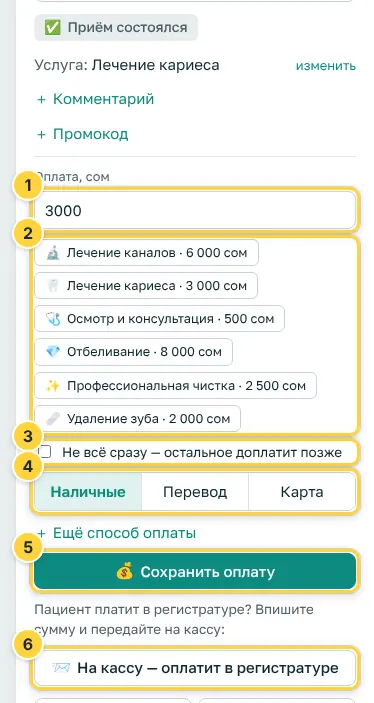
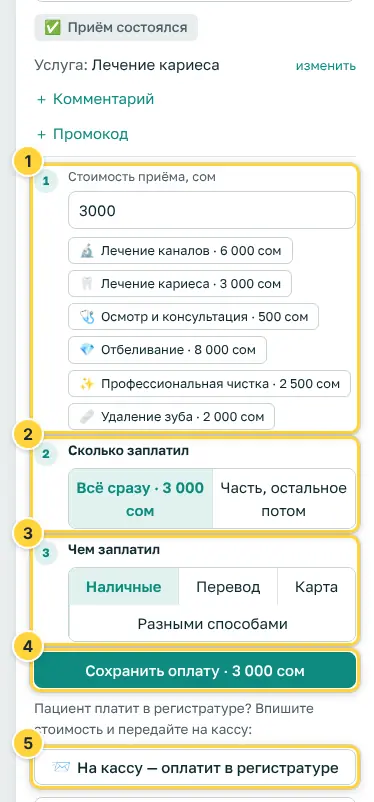
Оплата по шагам: стоимость → «всё сразу» или «часть, остальное потом» → чем заплатил («разными способами» — сумма по каждому)
Сумма вводится один раз, остаток и сверка способов видны сразу; «Снять отметку оплаты» — отдельной кнопкой.
Руководство: шаги и снимок оплаты.

Claude-Session: https://claude.ai/code/session_01C1D5HDPYP8Vu6bMCVu8hAp

diff --git a/src/schedule/PaymentBox.tsx b/src/schedule/PaymentBox.tsx
@@ -24,8 +24,8 @@ type View = 'show' | 'edit' | 'bill' | 'extra' | 'rest' | 'billed'
  * - оплачен: сумма, «Изменить», долг со сроком или «Оплачено полностью», история платежей;
  *   была только предоплата — «Указать стоимость и принять остаток»; есть долг — «Принять доплату»;
  * - «На кассу» (в клинике есть регистратура, а я врач): «К оплате на кассе», врачу — «Изменить сумму»;
- * - форма: сумма, цены услуг кнопками (ещё раз — прибавить), «Не всё сразу» со стоимостью и сроком,
- *   «＋ Ещё способ оплаты» — часть наличными, часть переводом. Пустая сумма — снять отметку оплаты.
+ * - форма по шагам: стоимость → «всё сразу» или «часть, остальное потом» → чем заплатил (или
+ *   «разными способами»); «Снять отметку оплаты» — отдельной кнопкой.
  * После ответа сервера карточка пересоздаёт блок (ключ — версия приёма), он открывается в нужном виде.
  */
 export function PaymentBox({ appointment: a, me }: { appointment: Appointment; me: Me }) {
@@ -129,8 +129,20 @@ function PriceChips({ onPick }: { onPick: (price: number, add: boolean) => void 
   )
 }
 
-type Part = { key: number; amount: string; method: Method }
+/** Как заплатил: один способ или «разными» — тогда сумма по каждому. */
+type How = Method | 'SPLIT'
+const HOW: [How, string][] = [...METHODS, ['SPLIT', 'Разными способами']]
+type Split = Record<Method, string>
+const NO_SPLIT: Split = { CASH: '', TRANSFER: '', CARD: '' }
+const SPLIT_LABEL: Record<Method, string> = { CASH: 'Наличными, сом', TRANSFER: 'Переводом, сом', CARD: 'Картой, сом' }
 
+/**
+ * Оплата приёма по шагам — как говорят на кассе:
+ * 1) сколько стоит приём (цены услуг кнопками, ещё раз — прибавить);
+ * 2) заплатил всё сразу или часть — тогда сколько сейчас, остальное долгом (и до какого числа);
+ * 3) чем заплатил: наличные, перевод, карта или «разными способами» — сумма по каждому.
+ * Одна сумма вводится один раз: «всё сразу» — оплачено = стоимость; части считаются от «заплатил».
+ */
 function PayForm({ a, me, billOnly, parts: initialParts, onCancel }: {
   a: Appointment
   me: Me
@@ -139,65 +151,78 @@ function PayForm({ a, me, billOnly, parts: initialParts, onCancel }: {
   onCancel?: () => void
 }) {
   const action = useAppointmentAction(a)
-  const first = initialParts.length > 1 ? initialParts[0] : undefined
-  const [amount, setAmount] = useState(String(first?.amountSom ?? a.paidSom ?? a.chargeSom ?? a.servicePriceSom ?? ''))
-  const [method, setMethod] = useState<Method>(first?.method ?? a.paymentMethod ?? 'CASH')
-  const [partial, setPartial] = useState((a.debtSom ?? 0) > 0)
-  const [charge, setCharge] = useState(String(a.chargeSom ?? a.servicePriceSom ?? ''))
+  const hadDebt = (a.debtSom ?? 0) > 0
+  const [cost, setCost] = useState(String(a.chargeSom ?? a.paidSom ?? a.servicePriceSom ?? ''))
+  const [whole, setWhole] = useState(!hadDebt)
+  const [paidNow, setPaidNow] = useState(hadDebt ? String(a.paidSom ?? '') : '')
   const [due, setDue] = useState(a.dueOn ?? '')
-  const [parts, setParts] = useState<Part[]>(initialParts.length > 1
-    ? initialParts.slice(1).map((e, i) => ({ key: i, amount: String(e.amountSom ?? ''), method: e.method ?? 'TRANSFER' }))
-    : [])
+  const startSplit = initialParts.length > 1
+  const [how, setHow] = useState<How>(startSplit ? 'SPLIT' : a.paymentMethod ?? 'CASH')
+  const [split, setSplit] = useState<Split>(() => {
+    if (!startSplit) return NO_SPLIT
+    const sums = { ...NO_SPLIT }
+    for (const e of initialParts) if (e.method) sums[e.method] = String((Number(sums[e.method]) || 0) + (e.amountSom ?? 0))
+    return sums
+  })
   const [problem, setProblem] = useState('')
   const toCashier = me.hasReception && !me.reception
 
-  const pick = (price: number, add: boolean) => {
-    const [value, set] = partial ? [charge, setCharge] : [amount, setAmount]
-    set(String(add ? (Number(value) || 0) + price : price))
-  }
-  const togglePartial = (on: boolean) => {
-    // Включили — стоимость из того, что было в «Оплате»; пусть впишут взнос
-    if (on && charge === '' && amount !== '') setCharge(amount)
-    setPartial(on)
-  }
+  const costNum = cost === '' ? null : Number(cost)
+  const paid = whole ? costNum : paidNow === '' ? null : Number(paidNow)
+  const rest = costNum != null && paid != null ? costNum - paid : null
+  const splitSum = METHODS.reduce((sum, [m]) => sum + (Number(split[m]) || 0), 0)
+
+  const pick = (price: number, add: boolean) => setCost(String(add ? (Number(cost) || 0) + price : price))
 
   const save = () => {
     setProblem('')
-    const main = amount === '' ? null : Number(amount)
-    const extra = parts.filter((p) => p.amount !== '').map((p) => ({ amountSom: Number(p.amount), method: p.method }))
-    if (extra.length && main == null) {
-      setProblem('Впишите сумму первой части')
+    if (costNum == null || costNum < 1) {
+      setProblem('Впишите, сколько стоит приём')
       return
     }
-    const paid = main == null ? null : main + extra.reduce((s, p) => s + p.amountSom, 0)
-    // Стёрли сумму у оплаченного приёма — это снятие оплаты: деньги пропадут из «Кассы», переспросить
-    if (paid == null && a.paidSom != null
-      && !window.confirm(`Снять отметку оплаты ${somText(a.paidSom)}? Сумма пропадёт из «Кассы» и отчёта.`)) return
-    let cost = partial && charge !== '' ? Number(charge) : null
-    if (partial && paid != null && cost != null && cost <= paid) {
-      setProblem('Стоимость должна быть больше, чем оплачено сейчас — иначе это полная оплата')
-      return
+    if (!whole) {
+      if (paid == null || paid < 1) {
+        setProblem('Впишите, сколько заплатил сейчас')
+        return
+      }
+      if (paid >= costNum) {
+        setProblem('Заплатил всё — выберите «Всё сразу»')
+        return
+      }
     }
-    // Счёт с кассы, а заплатил меньше — остаток долгом, стоимость — сумма счёта
-    if (!partial && paid != null && a.paidSom == null && a.chargeSom != null && paid < a.chargeSom) cost = a.chargeSom
+    const amount = paid!
+    let parts: { amountSom: number; method: Method }[] | undefined
+    let method: Method = how === 'SPLIT' ? 'CASH' : how
+    if (how === 'SPLIT') {
+      parts = METHODS.filter(([m]) => Number(split[m]) > 0).map(([m]) => ({ amountSom: Number(split[m]), method: m }))
+      if (splitSum !== amount) {
+        setProblem(`По способам вышло ${somText(splitSum)}, а заплатил ${somText(amount)} — поправьте суммы`)
+        return
+      }
+      if (parts.length < 2) {
+        // Одним способом — не «разными»
+        method = parts[0]?.method ?? 'CASH'
+        parts = undefined
+      } else method = parts[0]!.method
+    }
+    // Счёт с кассы, а пришло меньше — остаток долгом (стоимость = сумма счёта)
+    const charge = !whole || (a.chargeSom != null && amount < a.chargeSom) ? costNum : undefined
     action.mutate({
       kind: 'payment',
-      body: {
-        amountSom: paid ?? undefined,
-        method,
-        chargeSom: cost ?? undefined,
-        dueOn: partial && due ? due : undefined,
-        parts: extra.length && main != null ? [{ amountSom: main, method }, ...extra] : undefined,
-      },
+      body: { amountSom: amount, method, chargeSom: charge, dueOn: !whole && due ? due : undefined, parts },
     })
+  }
+  const unmark = () => {
+    if (!window.confirm(`Снять отметку оплаты ${somText(a.paidSom ?? 0)}? Сумма пропадёт из «Кассы» и отчёта.`)) return
+    action.mutate({ kind: 'payment', body: { method: a.paymentMethod ?? 'CASH' } })
   }
   const bill = () => {
     setProblem('')
-    if (amount === '' || Number(amount) < 1) {
+    if (costNum == null || costNum < 1) {
       setProblem('Впишите, сколько вышло за приём')
       return
     }
-    action.mutate({ kind: 'bill', body: { chargeSom: Number(amount) } })
+    action.mutate({ kind: 'bill', body: { chargeSom: costNum } })
   }
 
   const error = problem || fieldError(action.error)
@@ -207,18 +232,18 @@ function PayForm({ a, me, billOnly, parts: initialParts, onCancel }: {
     </button>
   )
   const cancel = onCancel && <button type="button" className="link" onClick={onCancel}>Отмена</button>
-  const amountField = (title: string) => (
+  const costField = (title: string) => (
     <label className="field"><span>{title}</span>
       <input type="number" min={0} inputMode="numeric" placeholder="Сумма, сом" aria-label="Сумма, сом"
-        value={amount} onChange={(e) => setAmount(e.target.value)} />
+        value={cost} onChange={(e) => setCost(e.target.value)} />
     </label>
   )
 
   if (billOnly) {
     return (
       <form className="pay-form" aria-label="Сумма на кассу" onSubmit={(e) => { e.preventDefault(); bill() }}>
-        {amountField('Сколько вышло за приём, сом')}
-        <PriceChips onPick={(p, add) => setAmount(String(add ? (Number(amount) || 0) + p : p))} />
+        {costField('Сколько вышло за приём, сом')}
+        <PriceChips onPick={pick} />
         {error && <p className="error" role="alert">{error}</p>}
         {cashierButton}
         {cancel}
@@ -229,37 +254,66 @@ function PayForm({ a, me, billOnly, parts: initialParts, onCancel }: {
   return (
     <form className="pay-form" aria-label="Оплата" onSubmit={(e) => { e.preventDefault(); save() }}>
       {waiting && <p className="payment-done">К оплате на кассе: {somText(a.chargeSom!)}</p>}
-      {amountField(partial ? 'Оплачено сейчас, сом' : 'Оплата, сом')}
-      <PriceChips onPick={pick} />
-      <label className="check">
-        <input type="checkbox" checked={partial} onChange={(e) => togglePartial(e.target.checked)} />
-        Не всё сразу — остальное доплатит позже
-      </label>
-      {partial && (
-        <div className="payment-part">
-          <label className="field"><span>Стоимость приёма, сом</span>
-            <input type="number" min={0} inputMode="numeric" value={charge} onChange={(e) => setCharge(e.target.value)} /></label>
-          <label className="field"><span>Доплатит до (можно не указывать)</span>
-            <DateInput min={todayIn()} value={due} onChange={(e) => setDue(e.target.value)} /></label>
+      <div className="pay-step">
+        <span className="pay-step-n" aria-hidden="true">1</span>
+        <div className="pay-step-body">
+          {costField('Стоимость приёма, сом')}
+          <PriceChips onPick={pick} />
         </div>
-      )}
-      <MethodButtons value={method} onChange={setMethod} />
-      {parts.map((p, i) => (
-        <div key={p.key} className="payment-extra-row">
-          <label className="field"><span>＋ Ещё</span>
-            <input type="number" min={1} inputMode="numeric" placeholder="Сумма, сом" aria-label={`Ещё оплачено, сом (${i + 2})`}
-              value={p.amount} onChange={(e) => setParts(parts.map((x) => x.key === p.key ? { ...x, amount: e.target.value } : x))} /></label>
-          <MethodButtons label={`Как заплатили (${i + 2})`} value={p.method}
-            onChange={(m) => setParts(parts.map((x) => x.key === p.key ? { ...x, method: m } : x))} />
-          <button type="button" className="link" onClick={() => setParts(parts.filter((x) => x.key !== p.key))}>Убрать</button>
+      </div>
+
+      <div className="pay-step">
+        <span className="pay-step-n" aria-hidden="true">2</span>
+        <div className="pay-step-body">
+          <span className="pay-step-title">Сколько заплатил</span>
+          <div className="segments" role="group" aria-label="Сколько заплатил">
+            <button type="button" aria-pressed={whole} onClick={() => setWhole(true)}>
+              Всё сразу{costNum ? ` · ${somText(costNum)}` : ''}</button>
+            <button type="button" aria-pressed={!whole} onClick={() => setWhole(false)}>Часть, остальное потом</button>
+          </div>
+          {!whole && (
+            <div className="payment-part">
+              <label className="field"><span>Заплатил сейчас, сом</span>
+                <input type="number" min={1} inputMode="numeric" value={paidNow} onChange={(e) => setPaidNow(e.target.value)} /></label>
+              {rest != null && rest > 0 && <p className="pay-rest">Остальное потом: <b className="num">{somText(rest)}</b> — станет долгом пациента</p>}
+              <label className="field"><span>Доплатит до (можно не указывать)</span>
+                <DateInput min={todayIn()} value={due} onChange={(e) => setDue(e.target.value)} /></label>
+            </div>
+          )}
         </div>
-      ))}
-      <button type="button" className="link" onClick={() => setParts([...parts, { key: Date.now(), amount: '', method: 'TRANSFER' }])}>＋ Ещё способ оплаты</button>
+      </div>
+
+      <div className="pay-step">
+        <span className="pay-step-n" aria-hidden="true">3</span>
+        <div className="pay-step-body">
+          <span className="pay-step-title">Чем заплатил</span>
+          <div className="segments wrap" role="group" aria-label="Как заплатили">
+            {HOW.map(([code, name]) => (
+              <button key={code} type="button" aria-pressed={how === code} onClick={() => setHow(code)}>{name}</button>
+            ))}
+          </div>
+          {how === 'SPLIT' && (
+            <div className="payment-split">
+              {METHODS.map(([m]) => (
+                <label key={m} className="field"><span>{SPLIT_LABEL[m]}</span>
+                  <input type="number" min={0} inputMode="numeric" placeholder="0" value={split[m]}
+                    onChange={(e) => setSplit({ ...split, [m]: e.target.value })} /></label>
+              ))}
+              {paid != null && (
+                <p className={splitSum === paid ? 'tone-ok' : 'hint'}>
+                  {splitSum === paid ? `✓ Сходится: ${somText(paid)}` : `Распределено ${somText(splitSum)} из ${somText(paid)}`}</p>
+              )}
+            </div>
+          )}
+        </div>
+      </div>
+
       {error && <p className="error" role="alert">{error}</p>}
-      <button type="submit" className="btn primary" disabled={action.isPending}>{waiting ? 'Принять оплату' : 'Сохранить оплату'}</button>
-      {a.paidSom != null && <p className="hint small">Сотрите сумму и сохраните — отметка оплаты снимется.</p>}
-      {cashierButton && <p className="hint small">Пациент платит в регистратуре? Впишите сумму и передайте на кассу:</p>}
+      <button type="submit" className="btn primary" disabled={action.isPending}>
+        {waiting ? 'Принять оплату' : 'Сохранить оплату'}{paid ? ` · ${somText(paid)}` : ''}</button>
+      {cashierButton && <p className="hint small">Пациент платит в регистратуре? Впишите стоимость и передайте на кассу:</p>}
       {cashierButton}
+      {a.paidSom != null && <button type="button" className="link danger-link" disabled={action.isPending} onClick={unmark}>Снять отметку оплаты</button>}
       {cancel}
     </form>
   )

diff --git a/src/site/guide/content.ts b/src/site/guide/content.ts
@@ -256,11 +256,10 @@ export const CHAPTERS: GuideChapter[] = [
         roles: MONEY,
         text: 'Нажмите «Приём состоялся» — в карточке появится оплата.',
         steps: [
-          'Сумма, сом.',
-          'Цены услуг кнопками: нажмите — сумма подставится, нажмите ещё (или другую) — прибавится.',
-          '«Не всё сразу» — впишите стоимость приёма и до какого числа доплатит: остаток станет долгом.',
-          'Как заплатили: наличные, перевод, карта. Часть так, часть иначе — «＋ Ещё способ оплаты».',
-          '«Сохранить оплату».',
+          'Шаг 1 — стоимость приёма, сом. Цены услуг кнопками: нажмите — сумма подставится, нажмите ещё (или другую) — прибавится.',
+          'Шаг 2 — «Всё сразу» или «Часть, остальное потом»: тогда впишите, сколько заплатил сейчас, — остаток сразу видно, он станет долгом (можно указать, до какого числа доплатит).',
+          'Шаг 3 — чем заплатил: наличные, перевод или карта. Часть так, часть иначе — «Разными способами» и сумма по каждому (пока не сойдётся с оплатой, сохранить нельзя).',
+          '«Сохранить оплату» — на кнопке видно, сколько уйдёт в кассу. Ошиблись — «Изменить» → «Снять отметку оплаты».',
           'Пациент платит в регистратуре — «На кассу — оплатит в регистратуре»: регистратуре придёт сообщение, приём появится в «К оплате на кассе».',
         ],
         image: { src: 'oplata.webp', alt: 'Форма оплаты: сумма, цены услуг, способ оплаты, Сохранить оплату', caption: 'Оплата состоявшегося приёма.' },

diff --git a/src/styles.css b/src/styles.css
@@ -214,7 +214,13 @@ input[type=checkbox], input[type=radio] { accent-color: var(--accent); }
 .payment-history { margin: 0; font-size: .88rem; }
 .price-hints { display: flex; flex-wrap: wrap; gap: 6px; }
 .price-hints .chip { cursor: pointer; border: 1px solid var(--line-strong); background: var(--card); color: var(--text); font: inherit; font-size: .85rem; }
-.payment-part, .payment-extra-row { display: grid; gap: 8px; padding: 8px 10px; border-radius: var(--r-sm); background: var(--sunken); }
+.payment-part, .payment-extra-row, .payment-split { display: grid; gap: 8px; padding: 8px 10px; border-radius: var(--r-sm); background: var(--sunken); }
+/* Оплата по шагам (PaymentBox): номер шага слева — «сколько стоит → сколько заплатил → чем» */
+.pay-step { display: grid; grid-template-columns: 24px 1fr; gap: 10px; align-items: start; }
+.pay-step-n { width: 24px; height: 24px; margin-top: 2px; display: grid; place-items: center; border-radius: 50%; background: var(--accent-soft); color: var(--link); font-size: .8rem; font-weight: 700; }
+.pay-step-body { display: grid; gap: 8px; min-width: 0; }
+.pay-step-title { font-size: .9rem; font-weight: 600; }
+.pay-rest { margin: 0; font-size: .92rem; }
 .pay-form > .link { justify-self: start; }
 .price-hints .chip[aria-pressed=true] { border-color: var(--accent); background: var(--accent-soft); color: var(--link); font-weight: 600; }
 .price-hints .chip.more { color: var(--link); }

diff --git a/src/settings/guides.ts b/src/settings/guides.ts
@@ -40,7 +40,7 @@ const PAY: Topic = {
   title: 'Принять оплату',
   steps: [
     'Карточка приёма → «Приём состоялся» → сумма (цена услуги подставлена) и способ: наличные, карта, перевод.',
-    'Платит частями — «Сохранить оплату» с той суммой, что внесли; остаток — потом «Принять доплату».',
+    'Платит частями — «Часть, остальное потом»: впишите, сколько внёс сейчас; остаток станет долгом — потом «Принять доплату».',
     'Ошиблись в сумме — «Изменить сумму» в карточке приёма.',
   ],
 }

diff --git a/src/cash/cash.test.tsx b/src/cash/cash.test.tsx
@@ -103,7 +103,7 @@ test('регистратура: «К оплате на кассе» — нажа
   await userEvent.click(within(table).getByRole('button', { name: 'Айгуль Т.' }))
   const panel = await screen.findByRole('complementary', { name: 'Карточка приёма' })
   expect(within(panel).getByLabelText('Сумма, сом')).toHaveValue(4000)
-  await userEvent.click(within(panel).getByRole('button', { name: 'Принять оплату' }))
+  await userEvent.click(within(panel).getByRole('button', { name: /^Принять оплату/ }))
 
   expect(await screen.findByText('Никто не ждёт оплаты')).toBeInTheDocument()
   expect(paid).toEqual({ amountSom: 4000, method: 'CASH' })

diff --git a/src/settings/guide.test.tsx b/src/settings/guide.test.tsx
@@ -25,7 +25,7 @@ test('«Памятка» открывается на роли сотрудник
 
   await userEvent.click(within(roles).getByRole('button', { name: 'Регистратура' }))
   expect(screen.queryByRole('region', { name: 'Что видит ассистент' })).not.toBeInTheDocument()
-  expect(screen.getByRole('region', { name: 'Принять оплату' })).toHaveTextContent('Приём состоялся')
+  expect(screen.getByRole('region', { name: /^Принять оплату/ })).toHaveTextContent('Приём состоялся')
 
   await userEvent.click(screen.getByRole('button', { name: '‹ Настройки' }))
   expect(back).toHaveBeenCalled()

diff --git a/src/site/guide/sizes.ts b/src/site/guide/sizes.ts
@@ -23,7 +23,7 @@ export const SIZES: Record<string, [number, number]> = {
   'novaya-zapis.webp': [370, 1183],
   'novosti.webp': [576, 341],
   'o-klinike.webp': [614, 554],
-  'oplata.webp': [374, 703],
+  'oplata.webp': [374, 802],
   'pacienty.webp': [1232, 511],
   'pamyatka.webp': [780, 1688],
   'pamyatki.webp': [1196, 362],
